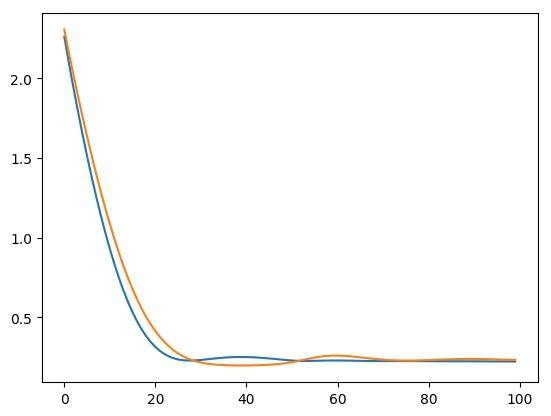
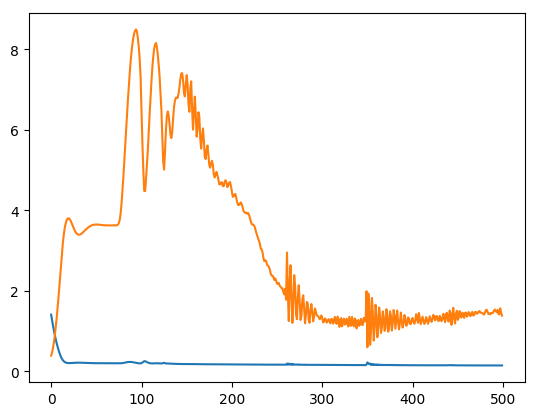
C

diff --git a/_posts/2020-04-25-mamlp.md b/_posts/2020-04-25-mamlp.md
@@ -191,7 +191,7 @@ test_tasks  = tasks.drop(index)
 
 ```python
 maml = MAML(MAML_Layer(window,1), train_tasks, test_tasks, inner_lr=0.01, meta_lr=0.001)
-maml.main_loop(num_iterations=100)
+maml.main_loop(num_iterations=500)
 ```
 
 한 번의 epoch이 사실상 한번이 아니기 때문에 생각했던 것 보다 시간이 더 걸린다.
@@ -199,8 +199,7 @@ maml.main_loop(num_iterations=100)
 <img src="/assets/img/pe/mamlp/mamlptwo.jpg">  
 
 <center><small>파란색이 Train</small></center>
-
-로스가 줄어드는 것만 보면 굉장히 최적화 된 것 같다. 이어서 MAML에게 기대하는 Few - Shot Learning을 얼만큼 잘 수행할 수 있는지 확인해보자.
+음 뭔가 좀 멍청한 것 같지만 일단은 목표하는 바가 few shot optimization에 있기 때문에 당장의 성능에는 큰 관심이 없다. MAML에게 기대하는 Few - Shot Learning을 얼만큼 잘 수행할 수 있는지 확인해보자.
 
 # <b>Test: MAML</b>
 
@@ -231,7 +230,7 @@ def preTrain(iteration,in_features,out_features):
         
     return model
   
-pretrained = preTrain(1000,window,1)
+pretrained = preTrain(500,window,1)
 ```
 
 그러면 이제 일반적으로 학습한 `pretrained`와 Meta Learning의 전략으로 학습한 `maml`이 새로 들어오는 Task에 대해서 얼마나 민감하게 반응하는지 비교해보자.
@@ -253,8 +252,8 @@ def loss_on_new_task(initial_model,task,num_steps,K,in_features,out_features,opt
 
     # train model on a random task
     losses = []
-    X = torch.stack([a[-(b+1)][0] for a in task for b in range(K)])
-    y = torch.stack([a[-(b+1)][1] for a in task for b in range(K)])
+    X = torch.stack([task[-(1+i)][0] for i in range(K)])
+    y = torch.stack([task[-(1+i)][1] for i in range(K)])
     for step in range(1, num_steps+1):
         
         loss = criterion(model(X), y)
@@ -271,11 +270,34 @@ def loss_on_new_task(initial_model,task,num_steps,K,in_features,out_features,opt
 maml_losses = []
 pretrain_losses = []
 
-task = [tasks[x] for x in sample(list(tasks.keys()),100)]
-for idx in range(100):
-  maml_losses.append(loss_on_new_task(maml.model.fc,task, 10, 10, 30, 1))
-  pretrain_losses.append(loss_on_new_task(pretrained,task, 10, 10, 30, 1))
-    
+task = [tasks[x] for x in sample(list(tasks.keys()),1000)]
+
+for idx in range(1000):
+  maml_losses.append(loss_on_new_task(
+    initial_model = maml.model.fc,
+    task = task[idx], 
+    num_steps = 10, 
+    K = 10, 
+    in_features = 30, 
+    out_features = 1))
+  pretrain_losses.append(loss_on_new_task(pretrained,task[idx], 10, 10, 30, 1))
+```
+
+전체 시계열 중에 1000개를 뽑아서 각 태스크를 10번 씩 최적화 시켜준다. 
+
+```python
+def sum_calc(loss):
+  res = []
+  for i in range(10):
+    res_i = []
+    for j in range(len(loss)):
+      res_i.append(loss[j][i])
+    res.append(np.mean(res_i))
+  return res
+
+maml_loss = sum_calc(maml_losses) 
+pretrain_loss = sum_calc(pretrain_losses)
+
 plt.plot(maml_loss, label='maml')
 plt.plot(pretrain_loss, label='pretrained')
 plt.legend()
@@ -284,5 +306,8 @@ plt.xlabel("gradient steps taken with SGD")
 display(plt.show())
 ```
 
+각 최적화 횟수에 따라 시계열 예측 성능이 얼마나 감소하는지 시각적으로 확인하다.
 
+<img src="/assets/img/pe/mamlp/mamlpthree.jpg">  
 
+시계열 예측이라는 Task가 너무 쉬운 탓일까? Pre train 모델도 적은 횟수로 충분히 빨리 최적화되는 것 같다. 음.. 원하던 모습은 아니지만 일단 10번 업데이트 했을 때의 성능이 maml이 더 좋다고 얼머부리며 대충 넘어간다. 그럼  이어서 전체적인 로스가 아니라 실제로 개별 시계열에 대한 업데이트 과정을 하나씩 뜯어본다. 적은 횟수의 업데이트를 통해 시계열의 seasonality / change point / trend 등을 반영할 수 있을까?
